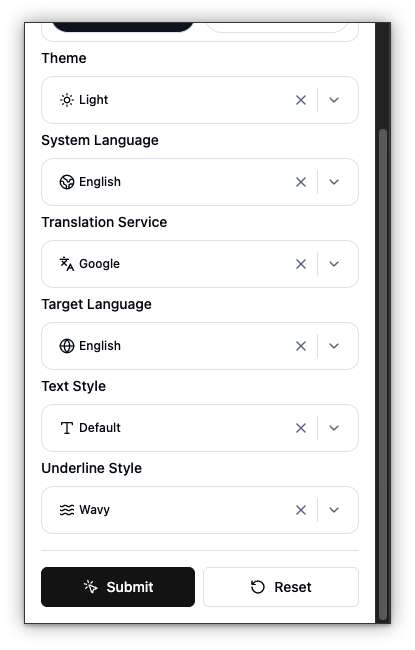
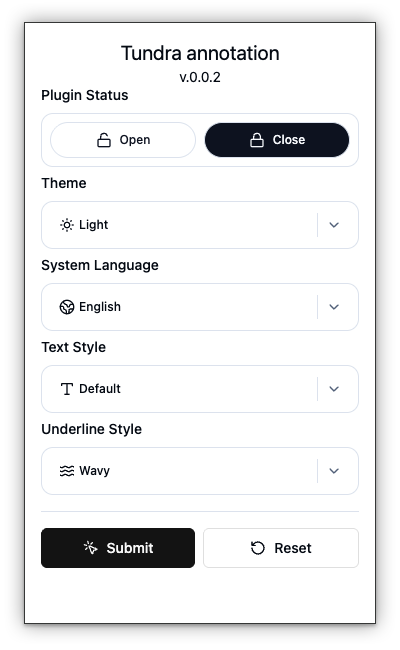
feat: updated readme

diff --git a/README.md b/README.md
@@ -30,9 +30,8 @@
 - ✅ **Shadcn UI**: [Shadcn UI](https://ui.shadcn.com)
 - ✅ **Zustand**: [Zustand](https://zustand-demo.pmnd.rs)
 <p align="center">
-  <img src="./md/image-2.png" alt="Tundra annotation"/>
-  <img src="./md/image-3.png" alt="Tundra annotation"/>
-  <img src="./md/image-4.png" height="300" alt="Tundra annotation"/>
+  <img src="./md/image-5.png" alt="Tundra annotation"/>
+  <img src="./md/image-6.png" alt="Tundra annotation"/>
 </p>
 
 ## 📦 Running chrome extension
@@ -53,98 +52,13 @@ pnpm run dev
 
 When you have completed these steps, `WXT` will help you open new tabs
 
-<p align="center">
-  <img src="./md/Function_recording3.gif" alt="Tundra annotation"/>
-</p>
-
-## 💼 Packages
-
-```
-.
-├── assets
-│   ├── avatar.jpg
-│   ├── empty.webp
-│   ├── font.css
-│   ├── main.css
-│   ├── react.svg
-│   └── underConstruction.webp
-├── components
-│   ├── chatBubble
-│   ├── collapsePanel
-│   ├── dotMatrix
-│   ├── edgeSnapDraggable
-│   ├── i18Config.ts
-│   ├── i18n.ts
-│   ├── icons
-│   ├── settings
-│   ├── skeletonLoader
-│   └── ui
-├── components.json
-├── entrypoints
-│   ├── background.ts
-│   ├── content
-│   ├── popup
-│   ├── sidebar.tsx
-│   ├── sidepanel
-│   └── type.ts
-├── hooks
-│   ├── useMobile.tsx
-│   ├── useStorage.tsx
-│   └── useStorage.type.ts
-├── lib
-│   ├── Marks
-│   ├── SelectionObserver.ts
-│   ├── Utils.ts
-│   └── ZodValidator.ts
-├── locales
-│   ├── en
-│   └── zh_CN
-├── md
-│   ├── image-2.png
-│   ├── image-3.png
-│   ├── image-4.png
-│   └── image.png
-├── package.json
-├── pnpm-lock.yaml
-├── postcss.config.js
-├── public
-│   ├── _locales
-│   ├── icon
-│   └── wxt.svg
-├── README.md
-├── services
-│   ├── api.ts
-│   ├── api.type.ts
-│   └── services.ts
-├── state
-│   ├── constant.ts
-│   ├── hooks.ts
-│   ├── index.tsx
-│   ├── store.ts
-│   └── type.ts
-├── tailwind.config.js
-├── tsconfig.json
-└── wxt.config.ts
-```
-
 ## 📦 Building chrome extension
 
 ```
 pnpm run build
 ```
 
-## 👀 Considerations
-
-The `services.ts` file contains mock data, which can be modified by yourself
-
-```
-├── services
-│   ├── api.ts
-│   ├── api.type.ts
-│   └── services.ts
-```
-
-## Project Refactoring
+## 🏗 Project Refactoring
 
 ### Select Component properties
 
